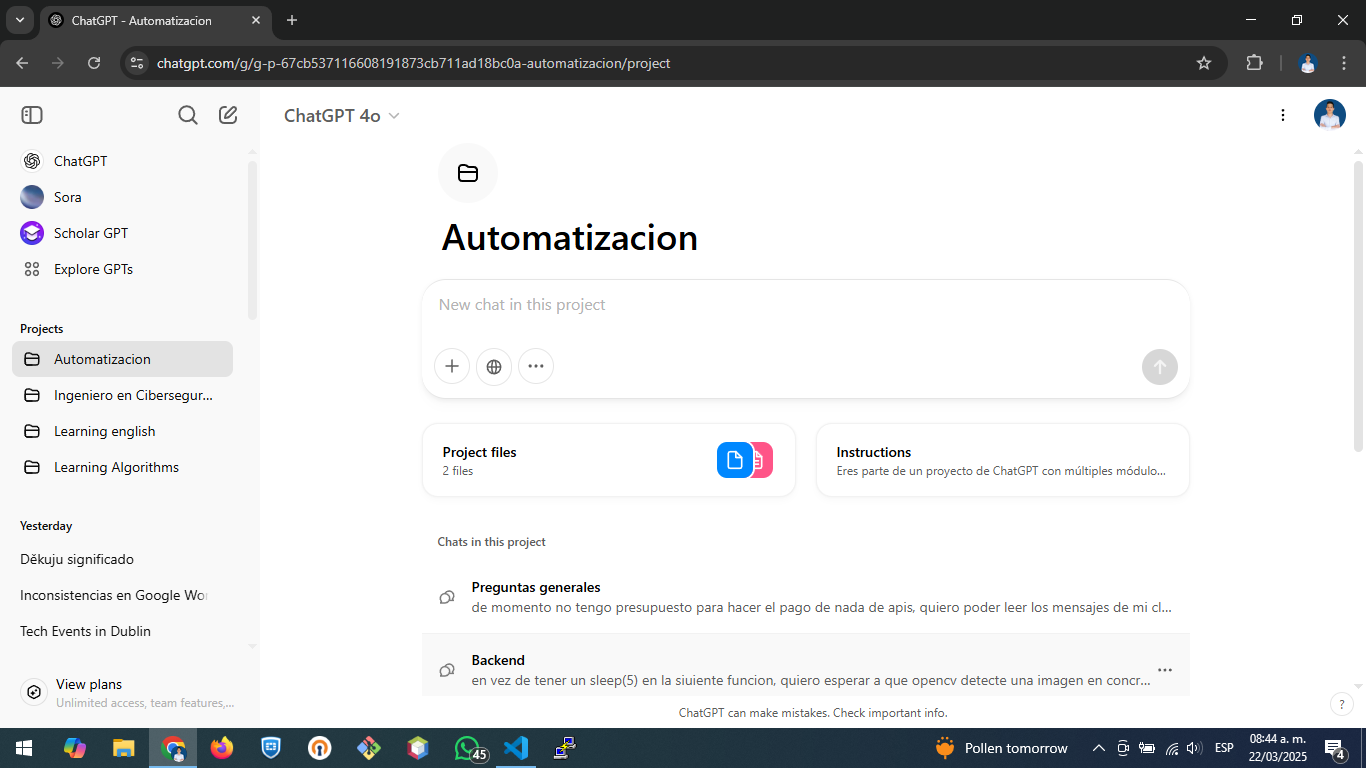
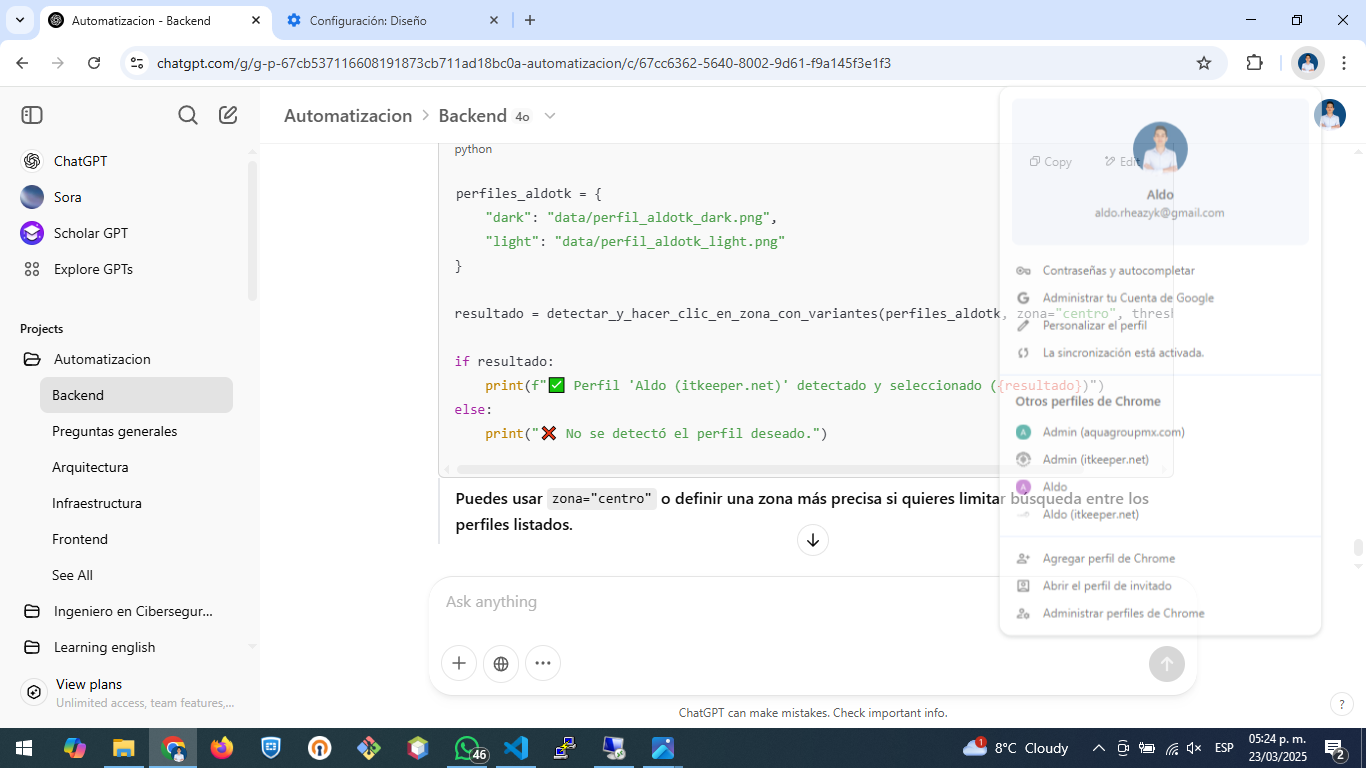
feature: entrenamiento para acceder a perfiles de chrome

diff --git a/src/services/automation.py b/src/services/automation.py
@@ -67,7 +67,7 @@ def esperar_hasta_carga_whatsapp(timeout=10):
 
 
 def abrir_aplicacion(nombre):
-    """Abre una aplicación solo si no está en ejecución y espera hasta que WhatsApp Web cargue."""
+    """Abre una aplicación solo si no está en ejecución y espera hasta que cargue, luego maximiza."""
     if nombre in APPS:
         if not verificar_app_abierta(nombre):
             print(f"🚀 Abriendo {nombre}...")
@@ -75,15 +75,36 @@ def abrir_aplicacion(nombre):
                 os.system(APPS[nombre])  # Usar start whatsapp://
                 if esperar_hasta_carga_whatsapp():  # Esperar hasta que WhatsApp se cargue
                     print("✅ WhatsApp Web cargado correctamente.")
+                    maximizar_ventana("WhatsApp")  # <-- AQUÍ
                 else:
                     print("⚠ No se detectó WhatsApp Web después del tiempo límite.")
             else:
-                os.startfile(APPS[nombre])  # Abrir aplicaciones normales
+                os.startfile(APPS[nombre])  # Abrir otras apps
+                time.sleep(2)  # Darle tiempo a que aparezca la ventana
+                maximizar_ventana(nombre)  # <-- AQUÍ también
         else:
             print(f"✅ {nombre} ya estaba abierto.")
-            traer_ventana_al_frente("whatsApp")
+            traer_ventana_al_frente(nombre)
+            maximizar_ventana(nombre)  # <-- También si ya estaba abierto
+        return True
     else:
         print(f"⚠ No se encontró la ruta para {nombre}.")
+        return False
+
+def maximizar_ventana(nombre_ventana):
+    """Maximiza la ventana si está minimizada o en modo normal."""
+    ventanas = gw.getWindowsWithTitle(nombre_ventana)
+    for ventana in ventanas:
+        if nombre_ventana.lower() in ventana.title.lower():
+            try:
+                ventana.maximize()
+                print(f"🧱 Ventana '{ventana.title}' maximizada.")
+                return True
+            except Exception as e:
+                print(f"❌ No se pudo maximizar la ventana '{ventana.title}': {e}")
+    print(f"⚠ No se encontró ninguna ventana activa con el nombre: {nombre_ventana}")
+    return False
+
 
 
 def traer_ventana_al_frente(nombre_ventana):
@@ -128,72 +149,166 @@ def cerrar_aplicacion(nombre_app):
 
 def buscar_contacto(nombre):
     """Busca un contacto o grupo en WhatsApp Web y lo abre."""
-    if detectar_y_hacer_clic_en_busqueda():
-        time.sleep(1)  # Esperar para asegurarse de que la barra de búsqueda esté activa
-        pyautogui.write(nombre, interval=0.1)
-        time.sleep(1)
-        # TODO keyboard.press("enter")
-        # TODO keyboard.release("enter")
-        print(f"✅ Contacto {nombre} abierto en WhatsApp Web.")
-    else:
-        print("⚠ No se pudo buscar el contacto porque la barra de búsqueda no fue encontrada.")
+
+    """Detecta la barra de búsqueda (vacía o llena), hace clic y borra si es necesario."""
+    imagenes = {
+        "empty": "data/search_bar_empty.png",
+        "filled": "data/search_bar_filled.png",
+        "focus": "data/search_bar_focus.png",
+        "dark_empty": "data/dark_search_bar_empty.png",
+        "dark_filled": "data/dark_search_bar_filled.png",
+        "dark_focus": "data/dark_search_bar_focus.png"
+    }
+
+    resultado = detectar_y_hacer_clic(imagenes)
+
+    if resultado is None:
+        return False
+
+    if "filled" in resultado:
+        print("🗑 Barra de búsqueda detectada con texto. Borrando contenido...")
+        borrar_texto_actual()
+        
+    time.sleep(1)  # Esperar para asegurarse de que la barra de búsqueda esté activa
+    pyautogui.write(nombre, interval=0.1)
+    time.sleep(1)
+    # TODO keyboard.press("enter")
+    # TODO keyboard.release("enter")
+    print(f"✅ Contacto {nombre} abierto en WhatsApp Web.")
+
+def borrar_texto_actual():
+    """Borra el texto que haya en un campo de entrada activo."""
+    time.sleep(0.3)
+    pyautogui.hotkey("ctrl", "a")
+    pyautogui.press("backspace")
+    print("🗑 Texto anterior eliminado.")
 
 SEARCH_BAR_IMAGE = "data/search_bar.png"
 
-def detectar_y_hacer_clic_en_busqueda():
-    """Detecta la barra de búsqueda en WhatsApp Web, ya sea vacía o con texto, hace clic en ella y borra el contenido si es necesario."""
-    print("🔍 Buscando la barra de búsqueda en WhatsApp Web...")
 
-    # Tomar una captura de pantalla
+def detectar_y_hacer_clic(imagenes_dict, threshold=0.75):
+    """
+    Busca imágenes en pantalla y hace clic en la que encuentre con mayor coincidencia.
+    
+    - imagenes_dict: dict[str, str] con {clave: ruta de imagen}
+    - threshold: valor mínimo de coincidencia
+    - return: clave de la imagen detectada, o None si no detecta nada
+    """
+    print("🔍 Buscando imágenes en pantalla...")
+
     screenshot = pyautogui.screenshot()
-    screenshot = cv2.cvtColor(np.array(screenshot), cv2.COLOR_RGB2BGR)
+    screenshot_cv = cv2.cvtColor(np.array(screenshot), cv2.COLOR_RGB2BGR)
 
-    # Cargar ambas imágenes de referencia
-    templates = {
-        "empty": cv2.imread("data/search_bar_empty.png", cv2.IMREAD_COLOR),
-        "filled": cv2.imread("data/search_bar_filled.png", cv2.IMREAD_COLOR),
-        "focus": cv2.imread("data/search_bar_focus.png", cv2.IMREAD_COLOR),
-        "dark_empty": cv2.imread("data/dark_search_bar_empty.png", cv2.IMREAD_COLOR),
-        "dark_filled": cv2.imread("data/dark_search_bar_filled.png", cv2.IMREAD_COLOR),
-        "dar_focus": cv2.imread("data/dark_search_bar_focus.png", cv2.IMREAD_COLOR)
-    }
-
-    for key, template in templates.items():
+    for key, path in imagenes_dict.items():
+        template = cv2.imread(path, cv2.IMREAD_COLOR)
         if template is None:
-            print(f"❌ ERROR: No se pudo cargar la imagen de referencia ({key}).")
+            print(f"❌ No se pudo cargar la imagen '{path}'")
             continue
 
-        # Obtener dimensiones de la imagen de referencia
         h, w, _ = template.shape
+        result = cv2.matchTemplate(screenshot_cv, template, cv2.TM_CCOEFF_NORMED)
+        _, max_val, _, max_loc = cv2.minMaxLoc(result)
 
-        # Buscar la imagen en la pantalla actual
-        result = cv2.matchTemplate(screenshot, template, cv2.TM_CCOEFF_NORMED)
-        min_val, max_val, min_loc, max_loc = cv2.minMaxLoc(result)
+        print(f"🔍 [{key}] Coincidencia: {max_val:.2f}")
 
-        print(f"🔍 [{key}] Nivel de coincidencia: {max_val:.2f}")
-
-        # Verificar si la coincidencia es suficiente
-        if max_val > 0.75:
+        if max_val >= threshold:
             x, y = max_loc
-            click_x, click_y = x + w // 2, y + h // 2  # Hacer clic en el centro de la barra
+            cx, cy = x + w // 2, y + h // 2
 
-            # Dibujar rectángulo de detección y guardar imagen
-            cv2.rectangle(screenshot, (x, y), (x + w, y + h), (0, 255, 0), 2)
-            cv2.imwrite("data/detection_result.png", screenshot)
+            cv2.rectangle(screenshot_cv, (x, y), (x + w, y + h), (0, 255, 0), 2)
+            cv2.imwrite("data/detection_result.png", screenshot_cv)
 
-            # Simular clic en la barra de búsqueda
-            pyautogui.click(click_x, click_y)
-            print(f"✅ Barra de búsqueda detectada y clickeada en ({click_x}, {click_y}) [{key}]")
+            pyautogui.click(cx, cy)
+            print(f"✅ Imagen '{key}' detectada y clickeada en ({cx}, {cy})")
+            return key  # <-- clave detectada
 
-            # Si la barra estaba llena, borrar el texto
-            if key == "filled":
-                print("🗑 Barra de búsqueda detectada con texto. Borrando contenido...")
-                pyautogui.hotkey("ctrl", "a")  # Seleccionar todo el texto
-                pyautogui.press("backspace")   # Borrar el texto
-                time.sleep(0.5)  # Esperar para asegurar que se borre completamente
+    print("❌ No se detectó ninguna imagen.")
+    cv2.imwrite("data/detection_failed.png", screenshot_cv)
+    return None
 
-            return True
+def detectar_y_hacer_clic_en_zona_con_variantes(imagenes_dict, zona="superior_derecha", threshold=0.75):
+    """
+    Detecta una imagen entre múltiples variantes en una zona específica de la pantalla y hace clic.
+    Dibuja también el punto del clic en data/detection_result.png para depuración visual.
+    """
+    print(f"🔍 Buscando imagen en zona: {zona} con variantes...")
 
-    print("❌ No se pudo detectar la barra de búsqueda en ninguno de los estados. Verifica las imágenes de referencia.")
-    cv2.imwrite("data/detection_failed.png", screenshot)  # Guardar la captura cuando falla
-    return False
+    screenshot = pyautogui.screenshot()
+    full_img = cv2.cvtColor(np.array(screenshot), cv2.COLOR_RGB2BGR)
+
+    h, w, _ = full_img.shape
+    offset_x, offset_y = 0, 0
+
+    # Zona recortada
+    if zona == "superior_derecha":
+        recorte = full_img[0:150, w-250:w]
+        offset_x = w - 250
+    elif zona == "superior_izquierda":
+        recorte = full_img[0:150, 0:250]
+    else:
+        recorte = full_img
+
+    for variante, ruta in imagenes_dict.items():
+        template = cv2.imread(ruta, cv2.IMREAD_COLOR)
+        if template is None:
+            print(f"❌ No se pudo cargar la imagen: {ruta}")
+            continue
+
+        th, tw, _ = template.shape
+        result = cv2.matchTemplate(recorte, template, cv2.TM_CCOEFF_NORMED)
+        _, max_val, _, max_loc = cv2.minMaxLoc(result)
+
+        print(f"🔍 [{variante}] Coincidencia: {max_val:.2f}")
+
+        if max_val >= threshold:
+            x, y = max_loc
+
+            # Ajustes manuales para centrar clic mejor
+            ajuste_x = -10
+            ajuste_y = 10
+
+            clic_x = offset_x + x + (tw // 2) + ajuste_x
+            clic_y = offset_y + y + (th // 2) + ajuste_y
+
+            # Dibujar detección y punto de clic
+            cv2.rectangle(full_img, (offset_x + x, offset_y + y),
+                          (offset_x + x + tw, offset_y + y + th), (0, 255, 0), 2)
+            cv2.circle(full_img, (clic_x, clic_y), 5, (0, 0, 255), -1)  # punto del clic en rojo
+            cv2.imwrite("data/detection_result.png", full_img)
+
+            pyautogui.click(clic_x, clic_y)
+            print(f"✅ Imagen '{variante}' detectada y clickeada en ({clic_x}, {clic_y})")
+            return variante
+
+    print("❌ Ninguna variante detectada.")
+    cv2.imwrite("data/detection_failed.png", full_img)
+    return None
+
+
+def acceder_perfil(isChromeOpen):
+
+    if isChromeOpen:
+        imagenes = {
+            "opened_white": "data/profile_chrome_opened_white.png",
+            "opened_dark": "data/profile_chrome_opened_dark.png",
+        }
+        detectar_y_hacer_clic_en_zona_con_variantes(imagenes)
+        time.sleep(1)
+        perfiles_aldotk = {
+            "dark": "data/perfil_usuario_dark.png",
+            "light": "data/perfil_usuario_light.png"
+        }
+
+        resultado = detectar_y_hacer_clic_en_zona_con_variantes(perfiles_aldotk, zona="centro", threshold=0.8)
+
+        if resultado:
+            print(f"✅ Perfil 'Aldo (itkeeper.net)' detectado y seleccionado ({resultado})")
+        else:
+            print("❌ No se detectó el perfil deseado.")
+
+    else:
+        
+        imagenes = {
+                "recently_opened": "data/profile_chrome_first_openning_dark.png"
+            }
+        detectar_y_hacer_clic(imagenes)

diff --git a/src/main.py b/src/main.py
@@ -1,12 +1,17 @@
-from services.automation import abrir_aplicacion, buscar_contacto
+from services.automation import abrir_aplicacion, buscar_contacto, detectar_y_hacer_clic_en_zona_con_variantes, detectar_y_hacer_clic, acceder_perfil
 import time
 
 # Abrir WhatsApp y asegurarse de que está en primer plano
-# nombre_contacto = "Aldo Mexico"# input("📌 Ingresa el nombre del contacto o grupo: ")
+#nombre_contacto = "Aldo Mexico"# input("📌 Ingresa el nombre del contacto o grupo: ")
 
-# abrir_aplicacion("whatsapp")
+#abrir_aplicacion("whatsapp")
 # Buscar un contacto (ajustar el nombre según sea necesario)
-# buscar_contacto(nombre_contacto)  # Puedes cambiarlo por cualquier contacto o grupo
+#buscar_contacto(nombre_contacto)  # Puedes cambiarlo por cualquier contacto o grupo
 
 #abrir_aplicacion("rdp")
-#abrir_aplicacion("chrome")
+chromeIsOpen = abrir_aplicacion("chrome")
+acceder_perfil(chromeIsOpen)
+
+
+#TODO Cuando hay una aplicacion que contiene un archivo y ese archivo tiene el nombre de la aplicacion que se quiere abrir se detecta como si fuese whatsapp o chrome.
+
